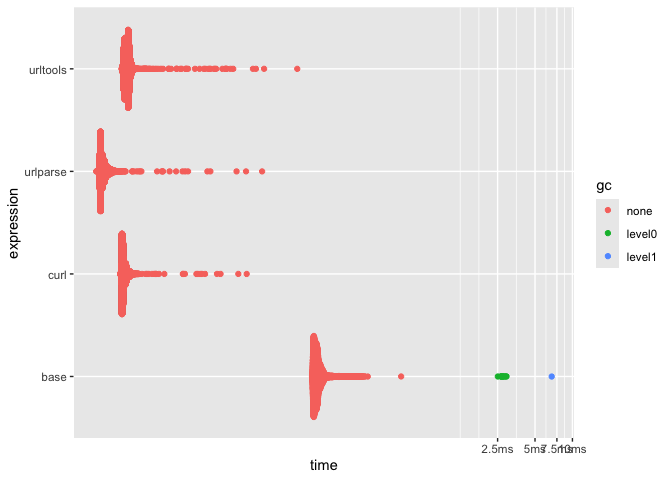
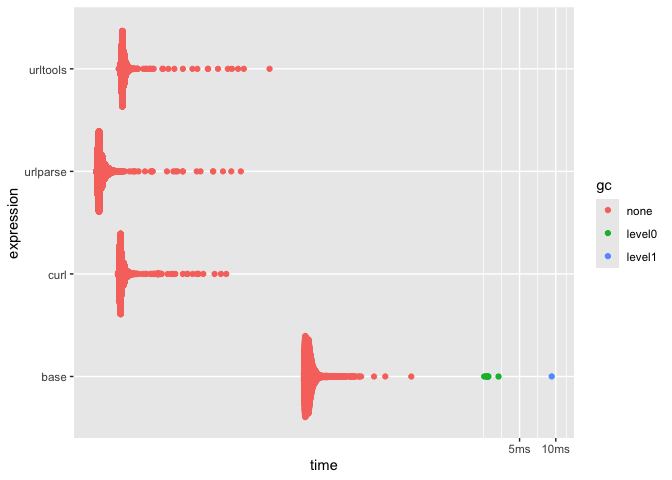
add code coverage

diff --git a/README.md b/README.md
@@ -8,6 +8,8 @@
 [![CRAN
 status](https://www.r-pkg.org/badges/version/urlparse)](https://CRAN.R-project.org/package=urlparse)
 [![R-CMD-check](https://github.com/DyfanJones/urlparse/actions/workflows/R-CMD-check.yaml/badge.svg)](https://github.com/DyfanJones/urlparse/actions/workflows/R-CMD-check.yaml)
+[![Codecov test
+coverage](https://codecov.io/gh/DyfanJones/urlparse/graph/badge.svg)](https://app.codecov.io/gh/DyfanJones/urlparse)
 <!-- badges: end -->
 
 Fast and simple url parser for R. Initially developed for the
@@ -129,8 +131,8 @@ bench::mark(
 #> # A tibble: 2 × 6
 #>   expression           min   median `itr/sec` mem_alloc `gc/sec`
 #>   <bch:expr>      <bch:tm> <bch:tm>     <dbl> <bch:byt>    <dbl>
-#> 1 piping            5.25µs   5.82µs   169955.        0B     17.0
-#> 2 single_function   1.68µs   1.97µs   467288.        0B      0
+#> 1 piping            5.25µs   5.78µs   172245.        0B     17.2
+#> 2 single_function   1.68µs   1.84µs   528586.        0B      0
 ```
 
 ## Benchmark:
@@ -149,19 +151,19 @@ url <- "https://user:pass@host.com:8000/path?query=1#fragment"
 #> # A tibble: 4 × 6
 #>   expression      min   median `itr/sec` mem_alloc `gc/sec`
 #>   <bch:expr> <bch:tm> <bch:tm>     <dbl> <bch:byt>    <dbl>
-#> 1 urlparse     1.76µs   1.97µs   480787.        0B      0  
-#> 2 httr2       64.86µs  70.44µs    13855.   560.9KB     19.6
-#> 3 curl        26.94µs  29.36µs    32701.   48.78KB     13.1
-#> 4 urltools   123.49µs 133.13µs     7159.    2.17MB     23.2
+#> 1 urlparse     1.72µs   1.84µs   506903.        0B      0  
+#> 2 httr2       64.49µs   67.9µs    14454.   560.9KB     19.5
+#> 3 curl        27.35µs  28.45µs    34292.   48.78KB     13.7
+#> 4 urltools   123.12µs 128.58µs     7529.    2.17MB     25.3
 
 show_relative(bm)
 #> # A tibble: 4 × 6
 #>   expression   min median `itr/sec` mem_alloc `gc/sec`
 #>   <bch:expr> <dbl>  <dbl>     <dbl>     <dbl>    <dbl>
-#> 1 urlparse     1      1       67.2        NaN      NaN
-#> 2 httr2       36.8   35.8      1.94       Inf      Inf
-#> 3 curl        15.3   14.9      4.57       Inf      Inf
-#> 4 urltools    70.0   67.6      1          Inf      Inf
+#> 1 urlparse     1      1       67.3        NaN      NaN
+#> 2 httr2       37.5   36.8      1.92       Inf      Inf
+#> 3 curl        15.9   15.4      4.55       Inf      Inf
+#> 4 urltools    71.5   69.7      1          Inf      Inf
 
 ggplot2::autoplot(bm)
 #> Loading required namespace: tidyr
@@ -186,19 +188,19 @@ string <- "abcdefghijklmnopqrstuvwxyzABCDEFGHIJKLMNOPQRSTUVWXYZ0123456789-._~`!@
 #> # A tibble: 4 × 6
 #>   expression      min   median `itr/sec` mem_alloc `gc/sec`
 #>   <bch:expr> <bch:tm> <bch:tm>     <dbl> <bch:byt>    <dbl>
-#> 1 urlparse     1.48µs   1.64µs   592810.      208B      0  
-#> 2 curl          2.3µs   2.42µs   402908.    3.06KB      0  
-#> 3 urltools     2.38µs   2.62µs   376109.    2.48KB      0  
-#> 4 base        80.32µs  87.04µs    11080.   28.59KB     23.6
+#> 1 urlparse     1.52µs   1.64µs   589179.      208B      0  
+#> 2 curl          2.3µs   2.46µs   398288.    3.06KB      0  
+#> 3 urltools     2.34µs   2.54µs   388732.    2.48KB      0  
+#> 4 base        80.65µs   87.7µs    11059.   28.59KB     23.7
 
 show_relative(bm)
 #> # A tibble: 4 × 6
 #>   expression   min median `itr/sec` mem_alloc `gc/sec`
 #>   <bch:expr> <dbl>  <dbl>     <dbl>     <dbl>    <dbl>
-#> 1 urlparse    1      1         53.5       1        NaN
-#> 2 curl        1.56   1.48      36.4      15.0      NaN
-#> 3 urltools    1.61   1.60      33.9      12.2      NaN
-#> 4 base       54.4   53.1        1       141.       Inf
+#> 1 urlparse    1      1         53.3       1        NaN
+#> 2 curl        1.51   1.50      36.0      15.0      NaN
+#> 3 urltools    1.54   1.55      35.2      12.2      NaN
+#> 4 base       53.2   53.5        1       141.       Inf
 
 ggplot2::autoplot(bm)
 ```
@@ -219,19 +221,19 @@ url <- paste0(sample(strsplit(string, "")[[1]], 1e4, replace = TRUE), collapse =
 #> # A tibble: 4 × 6
 #>   expression      min   median `itr/sec` mem_alloc `gc/sec`
 #>   <bch:expr> <bch:tm> <bch:tm>     <dbl> <bch:byt>    <dbl>
-#> 1 urlparse    85.94µs  87.53µs    11280.    15.7KB     0   
-#> 2 curl        93.28µs  94.75µs    10142.        0B     0   
-#> 3 urltools   241.33µs 243.75µs     3999.    15.7KB     0   
-#> 4 base         6.74ms   6.94ms      141.   332.9KB     7.95
+#> 1 urlparse    86.92µs   88.4µs    11065.    15.8KB     0   
+#> 2 curl        93.15µs   94.9µs    10251.        0B     0   
+#> 3 urltools   241.65µs    246µs     4008.    15.8KB     0   
+#> 4 base         6.78ms      7ms      140.   334.1KB     7.97
 
 show_relative(bm)
 #> # A tibble: 4 × 6
 #>   expression   min median `itr/sec` mem_alloc `gc/sec`
 #>   <bch:expr> <dbl>  <dbl>     <dbl>     <dbl>    <dbl>
-#> 1 urlparse    1      1         80.0       Inf      NaN
-#> 2 curl        1.09   1.08      71.9       NaN      NaN
-#> 3 urltools    2.81   2.78      28.4       Inf      NaN
-#> 4 base       78.4   79.2        1         Inf      Inf
+#> 1 urlparse    1      1         79.3       Inf      NaN
+#> 2 curl        1.07   1.07      73.5       NaN      NaN
+#> 3 urltools    2.78   2.78      28.7       Inf      NaN
+#> 4 base       78.0   79.2        1         Inf      Inf
 
 ggplot2::autoplot(bm)
 ```
